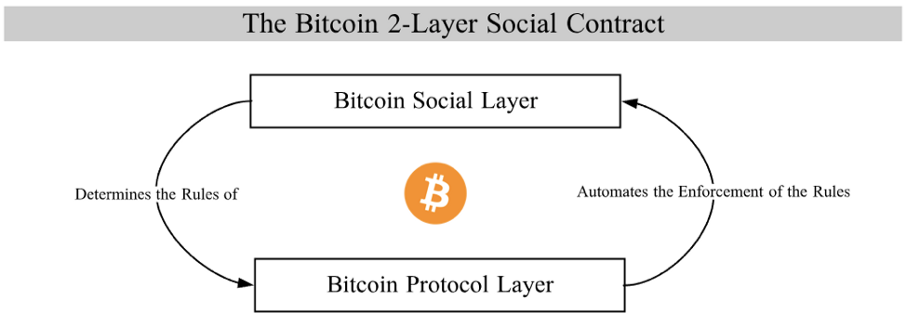
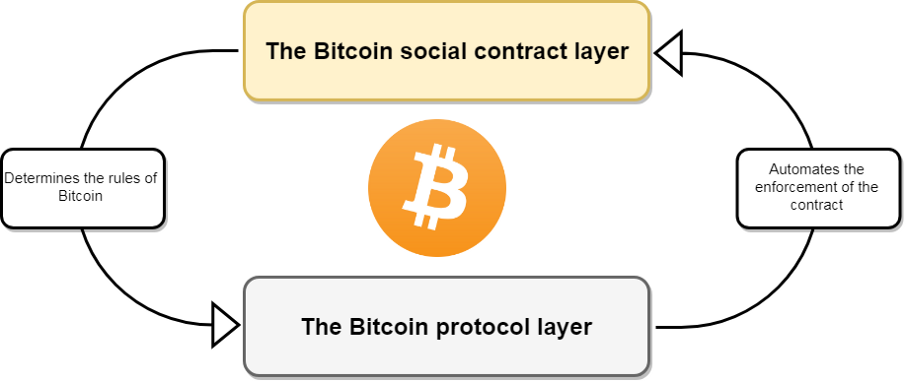
upload

diff --git a/_posts/2019-03-31-CY19-Q1-Journal.md b/_posts/2019-03-31-CY19-Q1-Journal.md
@@ -3319,13 +3319,13 @@ We begin our analysis by laying out the framework of conflicting visions. Using 
 
 #### Setting The Scene
 
-1. Defining Visions
+I. Defining Visions
 II. The Conflict of "Crypto" Visions
 III. The Structure of Arguments
 
 #### Episodes
 
-1. Episode 1: Monetary Maximalism vs. Multicoinery
+IV. Episode 1: Monetary Maximalism vs. Multicoinery
 V. Episode 2: The "Fairness" of Crypto Distribution
 VI. Episode 3: Governance
 VII. Episode 4: Proof-of-work vs. Proof-of-stake
@@ -3365,7 +3365,8 @@ The most salient distinction people have made, [between "money crypto" and "tech
 
 ### The Structure of Arguments
 
-_Hasu's model of Bitcoin's_ [_social contract_](https://medium.com/@hasufly/bitcoins-social-contract-1f8b05ee24a9?sk=27e8cf65d45c46ffae1466ce2ac31b48) _illustrates the dualistic relationship between the social contract and implementation details in public blockchains._
+![Image Description](/assets/images/cy19q1/btc-social-contract.png){: .align-center}*Hasu's model of Bitcoin's_ [_social contract_](https://medium.com/@hasufly/bitcoins-social-contract-1f8b05ee24a9?sk=27e8cf65d45c46ffae1466ce2ac31b48) _illustrates the dualistic relationship between the social contract and implementation details in public blockchains.*
+
 
 Virtually every debate about cryptocurrencies happens at the social layer. This is for good reason, given the nature of the [network governance models](https://medium.com/@pierre_rochard/bitcoin-governance-37e86299470f) many public blockchains follow, decisions around consensus often reinforce precedents for the future. As such, design is approached carefully and with thoughtful consideration in some major historical debates:
 
